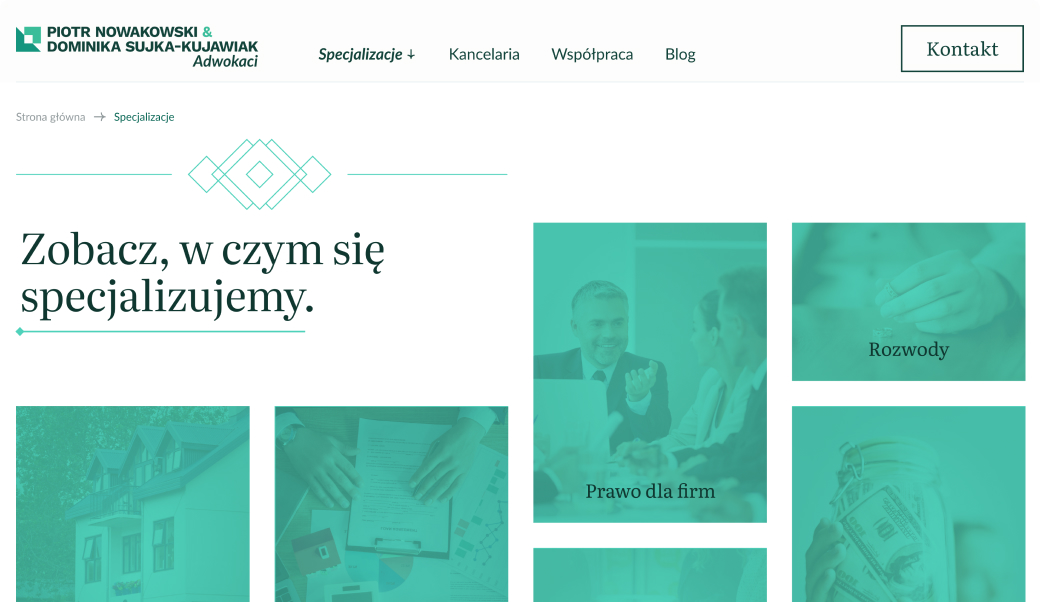
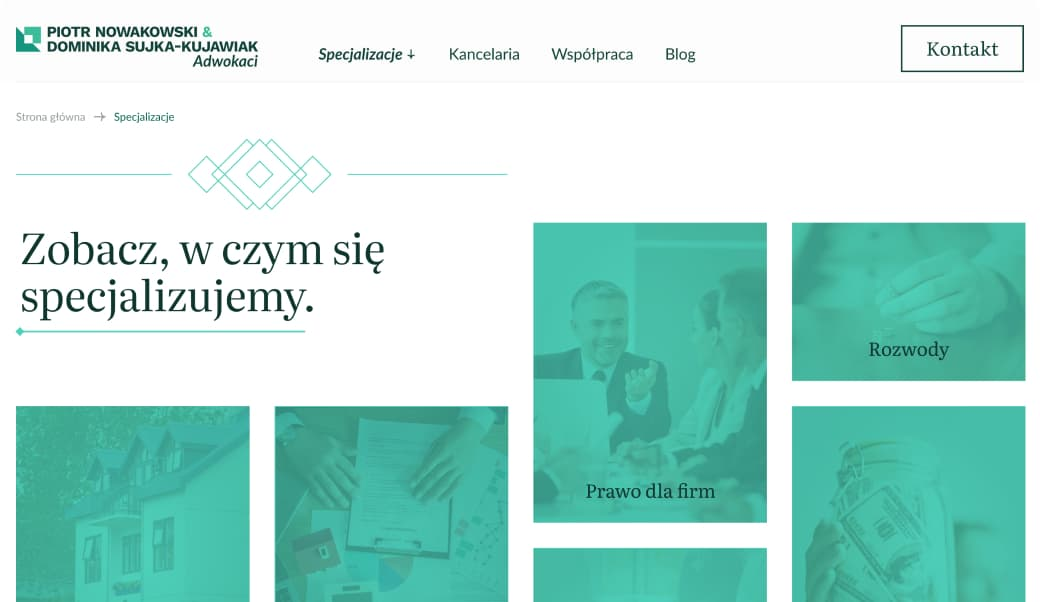
reduced sizes of big images

diff --git a/src/app/pl/projektowanie-ux/page.js b/src/app/pl/projektowanie-ux/page.js
@@ -84,7 +84,7 @@ const data = {
 		img: {
 			asset: {
 				altText: "ASDASDasd",
-				url: "/Hero.webp",
+				url: "/Hero.png",
 				metadata: {
 					dimensions: {
 						height: 1152,
@@ -557,7 +557,7 @@ const data = {
 	image2: {
 		asset: {
 			altText: "asdasdsadsadasd",
-			url: "/Photo2.png",
+			url: "/Photo2.jpg",
 			metadata: {
 				dimensions: {
 					width: 3840,
@@ -570,7 +570,7 @@ const data = {
 	image: {
 		asset: {
 			altText: "asdasdsadsadasd",
-			url: "/Photo1.png",
+			url: "/Photo1.jpg",
 			metadata: {
 				dimensions: {
 					width: 3840,
